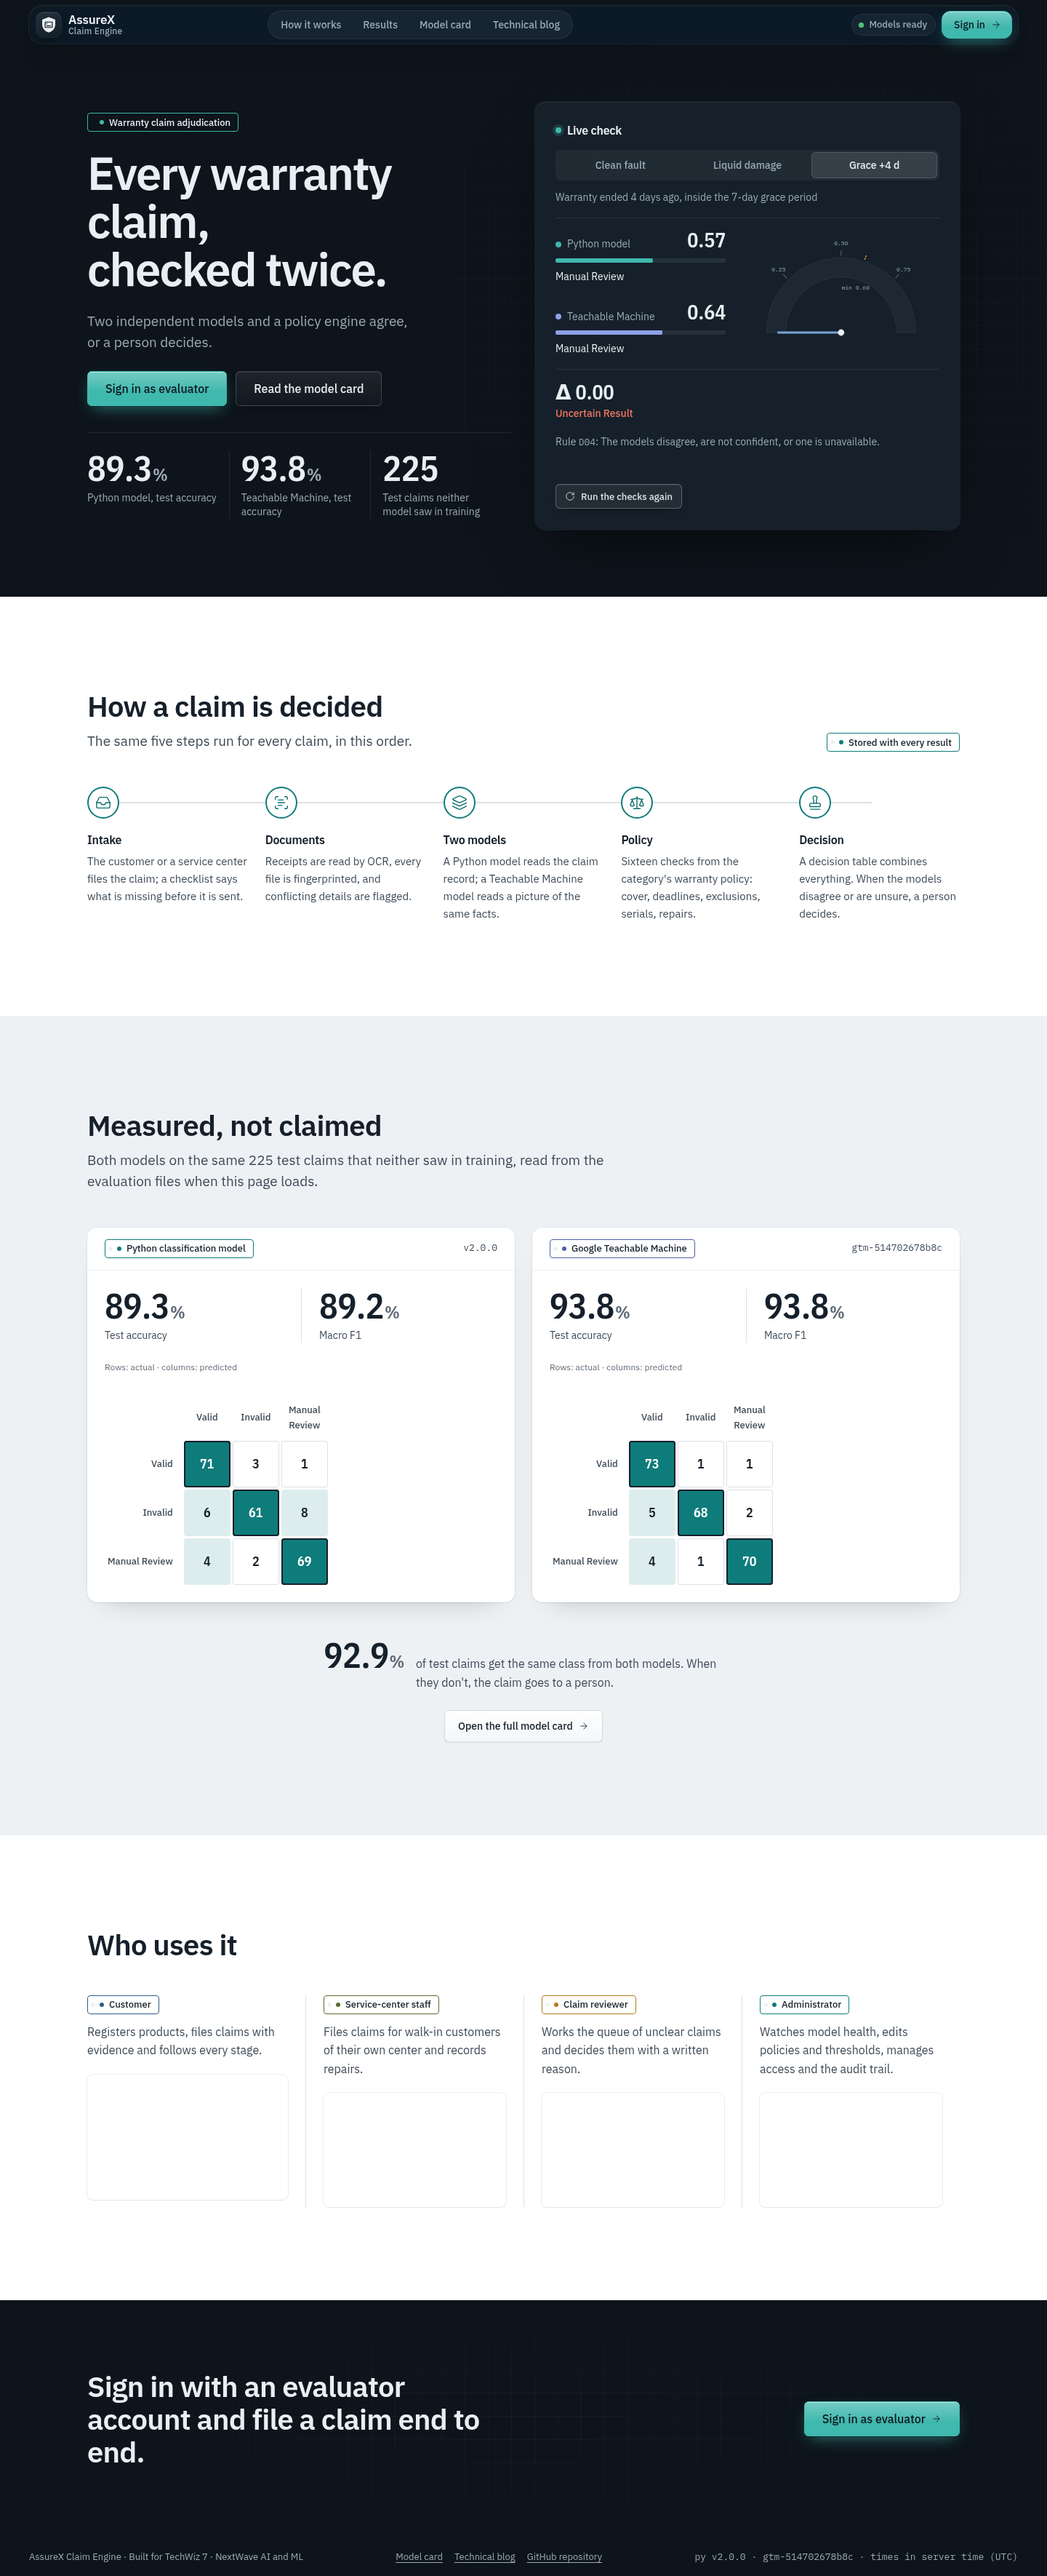
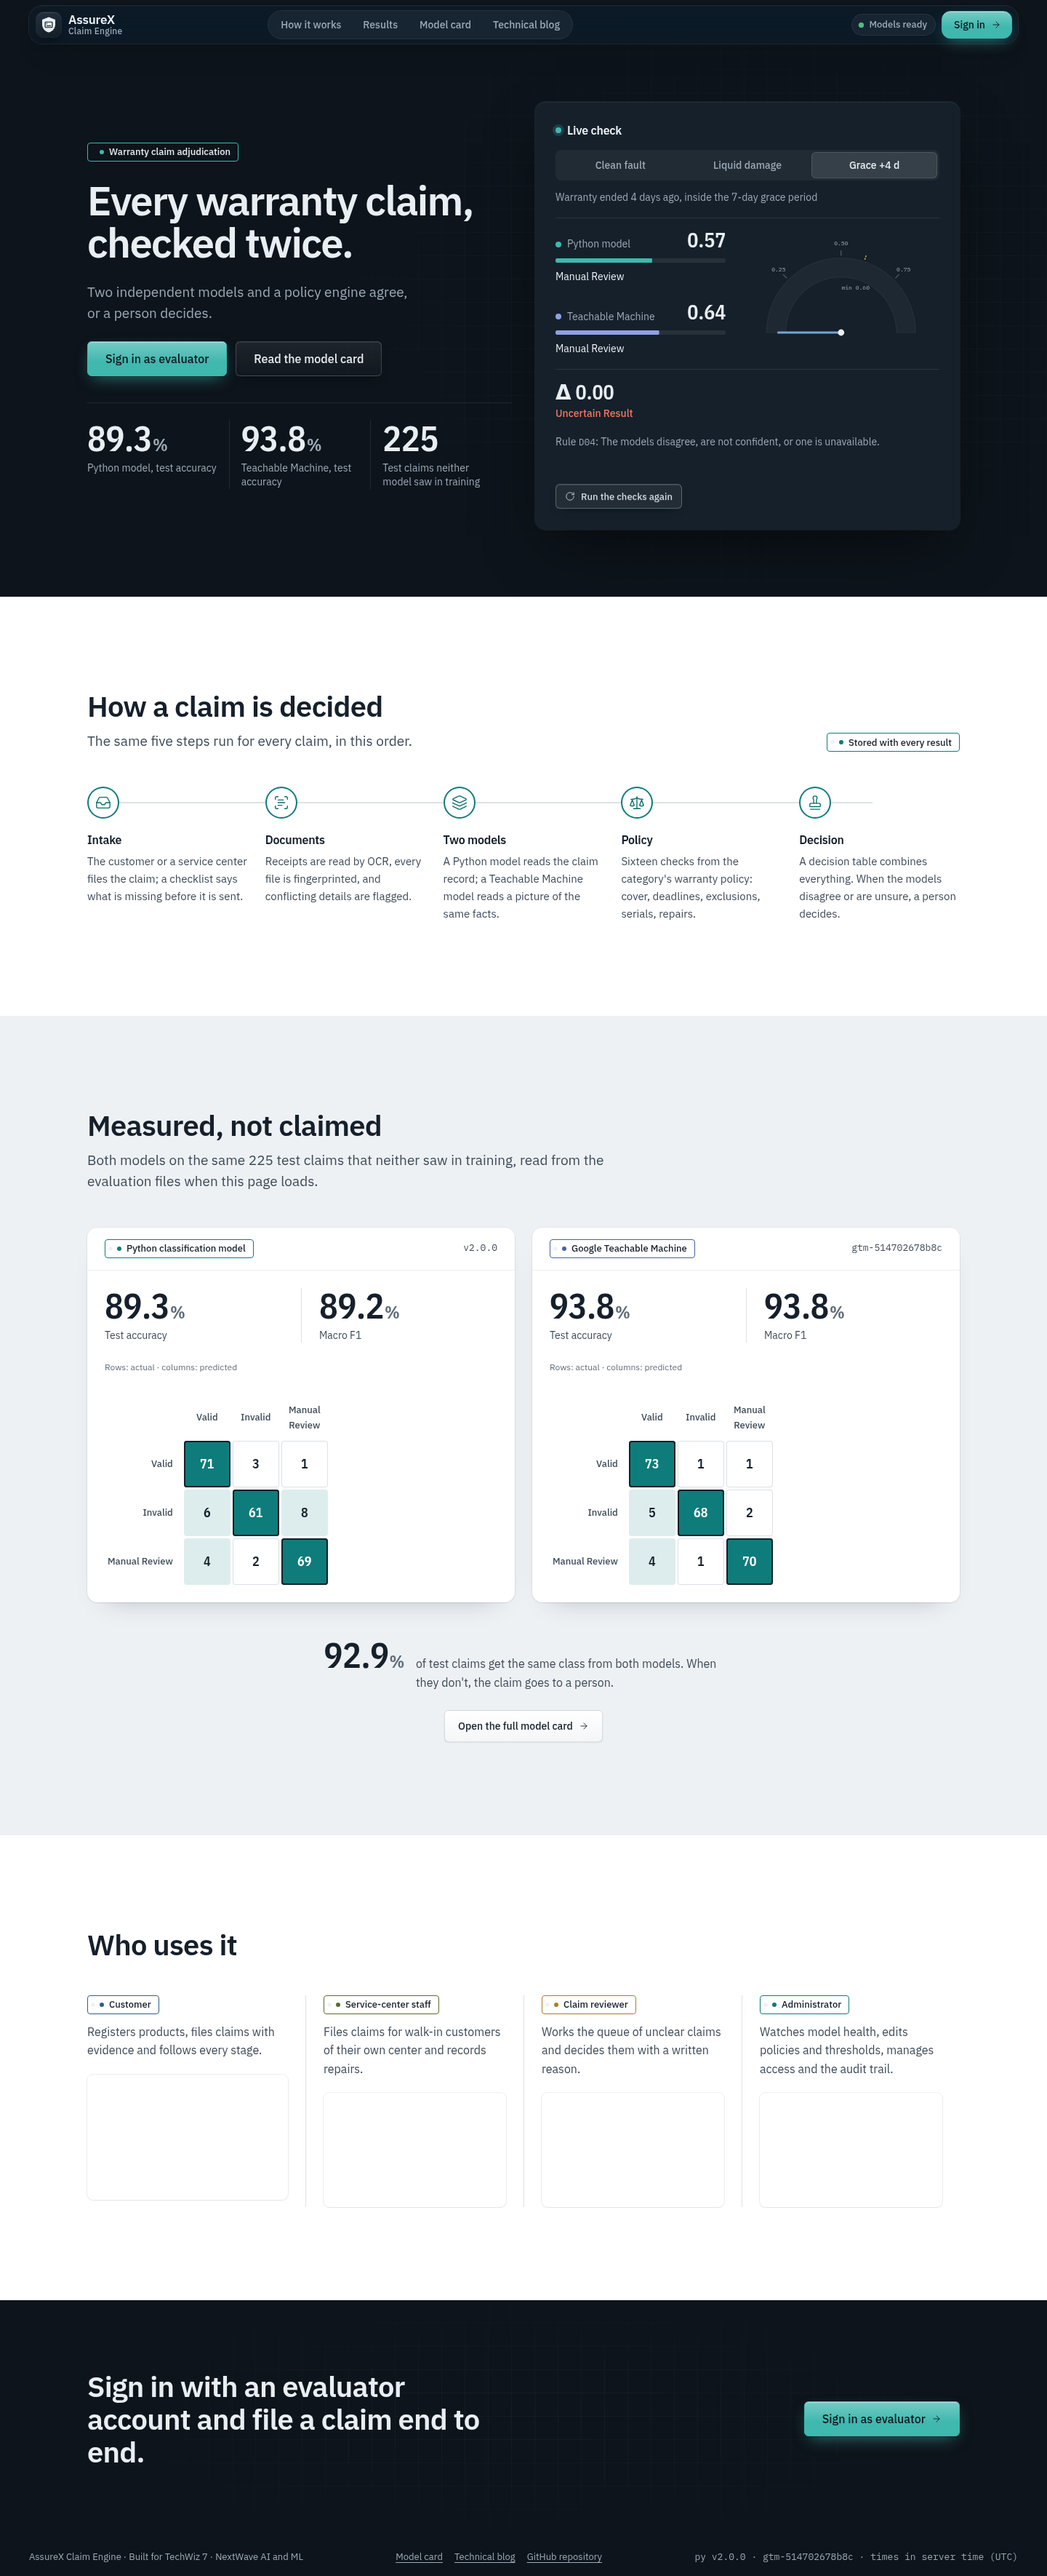
feat: reach the website from any dashboard without signing out
The logo now opens the home page for everyone, and the home page no
longer sends signed-in people straight back to their dashboard. For them
its buttons read Go to my dashboard, and the dark navbar shows their
role links, bell and account button. The account menu has a Website
group: My dashboard, Home page (you stay signed in), Model card and
Technical blog. The landing headline stays on two lines at laptop and
desktop widths. Tests cover the signed-in home page, the links and the
signed-out view.

Changed region(s): [[0.0625, 0.0311, 0.4375, 0.1864], [0.375, 0.1554, 0.4375, 0.2175]]

diff --git a/templates/components/navbar.html b/templates/components/navbar.html
@@ -7,7 +7,7 @@
 {% set models_ready = mv.python != 'not installed' and mv.gtm != 'not installed' %}
 <header class="topbar">
   <div class="wrap">
-    <a class="brand" href="{{ url_for('auth.home') if current_user else url_for('public.index') }}">
+    <a class="brand" href="{{ url_for('public.index') }}" aria-label="AssureX home page">
       <span class="brand-tile">{% include "components/mark.svg" %}</span><span class="brand-name">AssureX<small>Claim Engine</small></span>
     </a>
     {% if current_user %}
@@ -57,6 +57,12 @@
             </div>
             <a href="{{ url_for('auth.profile') }}"><i class="bi bi-person" aria-hidden="true"></i>Profile</a>
             <a href="{{ url_for('claims.notifications') }}" {% if ep == 'claims.notifications' %}aria-current="page"{% endif %}><i class="bi bi-bell" aria-hidden="true"></i>Notifications{% if unread %}<span class="menu-hint">{{ unread|length }}{{ '+' if unread|length >= 20 }} unread</span>{% endif %}</a>
+            <p class="menu-label">Website</p>
+            <a href="{{ url_for('auth.home') }}"><i class="bi bi-inbox" aria-hidden="true"></i>My dashboard</a>
+            <a href="{{ url_for('public.index') }}" {% if ep == 'public.index' %}aria-current="page"{% endif %}><i class="bi bi-box-arrow-up-right" aria-hidden="true"></i>Home page<span class="menu-hint">you stay signed in</span></a>
+            <a href="{{ url_for('public.model_card') }}" {% if ep == 'public.model_card' %}aria-current="page"{% endif %}><i class="bi bi-clipboard2-pulse" aria-hidden="true"></i>Model card</a>
+            <a href="{{ url_for('public.blog') }}" {% if ep == 'public.blog' %}aria-current="page"{% endif %}><i class="bi bi-card-heading" aria-hidden="true"></i>Technical blog</a>
+            <hr class="menu-sep">
             {% if can('settings.manage') %}
               <p class="menu-label">Administration</p>
               <a href="{{ url_for('admin.models') }}" {% if ep == 'admin.models' %}aria-current="page"{% endif %}><i class="bi bi-cpu" aria-hidden="true"></i>Models<span class="menu-hint">install and version</span></a>

diff --git a/static/css/app.css b/static/css/app.css
@@ -1340,3 +1340,17 @@ a.kpi:focus-visible { box-shadow: var(--focus); }
 /* workbench: in the narrow verdict column each probability bar runs full width under its label */
 .workbench .pbar { grid-template-columns: minmax(0, 1fr) auto; row-gap: 4px; }
 .workbench .pbar .t { grid-column: 1 / -1; grid-row: 2; }
+
+/* signed-in on the landing page: the dark island carries the role links, bell and account button */
+@media (min-width: 992px) {
+  .nav-overlay .topbar:not(.scrolled) .nav { background: rgba(255, 255, 255, .05); box-shadow: inset 0 0 0 1px rgba(255, 255, 255, .06); }
+  .nav-overlay .topbar:not(.scrolled) .nav a { color: var(--on-bench-2); }
+  .nav-overlay .topbar:not(.scrolled) .nav a:hover { color: var(--on-bench); }
+}
+.nav-overlay .topbar:not(.scrolled) .icon-btn { color: var(--on-bench-2); }
+.nav-overlay .topbar:not(.scrolled) .icon-btn:hover { color: var(--on-bench); background: rgba(255, 255, 255, .08); }
+.nav-overlay .topbar:not(.scrolled) .count-pip { box-shadow: 0 0 0 2px var(--bench); }
+.nav-overlay .topbar:not(.scrolled) .user-btn { background: rgba(255, 255, 255, .06); color: var(--on-bench);
+  box-shadow: inset 0 1px 0 rgba(255, 255, 255, .08), 0 0 0 1px rgba(255, 255, 255, .1); }
+.nav-overlay .topbar:not(.scrolled) .user-btn .initials { box-shadow: inset 0 1px 0 rgba(255, 255, 255, .18), 0 0 0 2px var(--bench), 0 0 0 3.5px var(--teal-bright); }
+.nav-overlay .topbar:not(.scrolled) .user-btn .role { color: var(--on-bench); }

diff --git a/templates/public/index.html b/templates/public/index.html
@@ -18,7 +18,8 @@
       <h1 id="hero-h"><span class="l">Every warranty claim,</span> <span class="l">checked twice.</span></h1>
       <p class="lede">Two independent models and a policy engine agree, or a person decides.</p>
       <div class="row hero-actions">
-        <a class="btn lg" href="{{ url_for('auth.login') }}">Sign in as evaluator</a>
+        {% if current_user %}<a class="btn lg" href="{{ url_for('auth.home') }}">Go to my dashboard</a>
+        {% else %}<a class="btn lg" href="{{ url_for('auth.login') }}">Sign in as evaluator</a>{% endif %}
         <a class="btn lg quiet" href="{{ url_for('public.model_card') }}">Read the model card</a>
       </div>
       <div class="metric-row hero-metrics">
@@ -97,8 +98,13 @@
 
 <section class="bench grid-bg closing" aria-labelledby="close-h">
   <div class="wrap closing-row">
+    {% if current_user %}
+    <h2 id="close-h">You are signed in as {{ current_user.full_name }}. Pick up where you left off.</h2>
+    <a class="btn lg" href="{{ url_for('auth.home') }}">Go to my dashboard{{ icon('arrow-right', 'sm') }}</a>
+    {% else %}
     <h2 id="close-h">Sign in with an evaluator account and file a claim end to end.</h2>
     <a class="btn lg" href="{{ url_for('auth.login') }}">Sign in as evaluator{{ icon('arrow-right', 'sm') }}</a>
+    {% endif %}
   </div>
 </section>
 {% endblock %}

diff --git a/static/css/pages/landing.css b/static/css/pages/landing.css
@@ -143,3 +143,9 @@
   .hero-metrics .l { font-size: var(--fs-2xs); }
   .hero-instrument .segmented span { padding-inline: var(--s2); white-space: nowrap; font-size: var(--fs-xs); }
 }
+
+/* keep the headline to two lines on laptop and desktop widths */
+@media (min-width: 1081px) {
+  .hero h1 { font-size: clamp(2.75rem, 3.9vw, 3.75rem); }
+  .hero h1 .l { white-space: nowrap; }
+}

diff --git a/tests/test_navigation.py b/tests/test_navigation.py
@@ -1,0 +1,26 @@
+"""Getting from a dashboard to the public website and back without signing out."""
+from tests.conftest import login, make_user
+
+
+def test_signed_in_person_can_open_the_website_and_stays_signed_in(app, client):
+    make_user("a@x.io")
+    login(client, "a@x.io")
+    r = client.get("/")
+    assert r.status_code == 200                                   # the landing page no longer bounces to the dashboard
+    html = r.get_data(as_text=True)
+    assert "Go to my dashboard" in html and "Sign in as evaluator" not in html
+    assert client.get("/claims/").status_code == 200              # still signed in afterwards
+
+
+def test_logo_and_account_menu_link_to_the_website(app, client):
+    make_user("a@x.io")
+    login(client, "a@x.io")
+    html = client.get("/claims/").get_data(as_text=True)
+    assert 'class="brand" href="/"' in html
+    for href in ('href="/home"', 'href="/model-card"', 'href="/blog"'):
+        assert href in html
+
+
+def test_signed_out_landing_still_offers_sign_in(app, client):
+    html = client.get("/").get_data(as_text=True)
+    assert "Sign in as evaluator" in html and "Go to my dashboard" not in html

diff --git a/src/api/public.py b/src/api/public.py
@@ -5,7 +5,7 @@ import re
 from pathlib import Path
 
 import markdown
-from flask import Blueprint, abort, current_app, g, jsonify, redirect, render_template, send_file, url_for
+from flask import Blueprint, abort, current_app, jsonify, render_template, send_file
 
 from src.core.gtm_classifier_v2 import find_model_file
 from src.core.python_classifier import model_card as python_model_card
@@ -27,8 +27,7 @@ ROLE_LINES = {
 
 @public_bp.get("/")
 def index():
-    if g.get("user"):
-        return redirect(url_for("auth.home"))
+    # Signed-in people can open the website too (logo, account menu); they stay signed in.
     from src.security import rbac
     from src.services import demo_bench
     roles = [{"key": r, "label": rbac.policy()["roles"][r]["label"], "line": ROLE_LINES[r],
